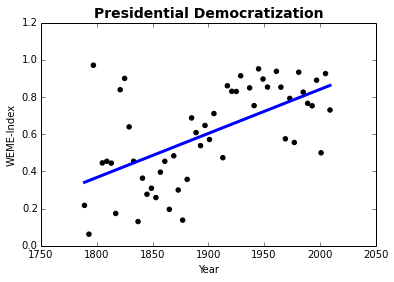
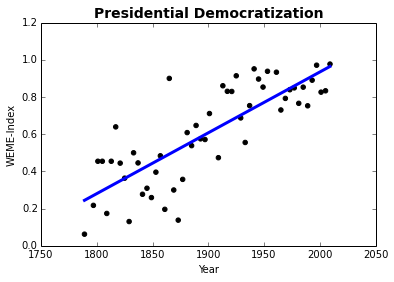
update to analysis graphics

diff --git a/reducer.py b/reducer.py
@@ -1,6 +1,5 @@
 #!/usr/bin/env python
 
-from operator import itemgetter
 import sys
 
 current_id = 'init'
@@ -11,17 +10,20 @@ tot_cnt    = 0
 # input comes from STDIN
 for line in sys.stdin:
     # parse the input we got from mapper.py
-    id,yr,pres,me,we,tot = line[:-1].split('\t')
-    if current_id == id:
+    fields = line[:-1].split('\t')
+    if (current_id == fields[0]):
+        me,we,tot = fields[3:]
         me_cnt  += int(me)
         we_cnt  += int(we)
         tot_cnt += int(tot)
     else:
-        print '%s\t%s\t%s\t%s\t%s\t%s' % (id,pres,yr,me_cnt,we_cnt,tot_cnt)
+        if (current_id!='init'):
+            print '%s\t%s\t%s\t%s\t%s\t%s' % (id,pres,yr,me_cnt,we_cnt,tot_cnt)
+        id,yr,pres,me,we,tot = fields
         me_cnt     = int(me)
         we_cnt     = int(we)
         tot_cnt    = int(tot)
         current_id = id
 # do not forget to output the last id if needed
-if current_id == id:
+if current_id != 'init':
     print '%s\t%s\t%s\t%s\t%s\t%s' % (id,pres,yr,me_cnt,we_cnt,tot_cnt)

diff --git a/mapper.py b/mapper.py
@@ -16,12 +16,12 @@ for line in sys.stdin:
     # write word counts if in transcript
     if inTranscript:
        line  = re.sub("[.,?!]"," ",line.strip().lower())
-       words = line.split()
+       words = line.split(" ")
        me    = len(filter(lambda x:x in ['i','me'], words))
        #me    = len(filter(lambda x:x in ['i','me','my','mine','myself'], words))
        we    = len(filter(lambda x:x in ['we','us'], words))
        #we    = len(filter(lambda x:x in ['we','us','our','ours','ourselves'], words))
-       tot   = len(words)
+       tot   = len(filter(None,words))
        print '%s\t%s\t%s\t%s\t%s\t%s' % (id,yr,pres,me,we,tot)
     # find transcript start
-    if '<div id="transcript" class="indent">' in line: inTranscript = True   
+    if '<div id="transcript" class="indent">' in line: inTranscript = True 
